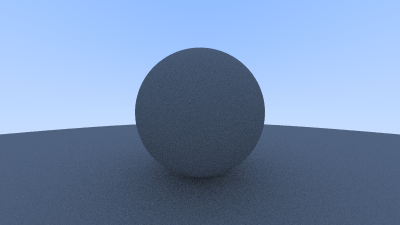
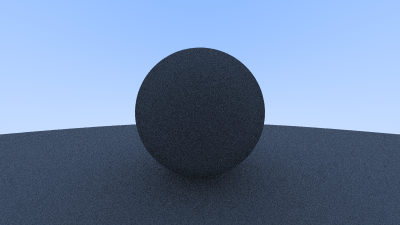
Update all book 1 rendered images
This also adds a new image illustrating the results of removing shadow
acne.

All images have been renumbered accordingly.

Resolves #875
Resolves #914
Resolves #978
Resolves #1013
Resolves #1182

diff --git a/books/RayTracingInOneWeekend.html b/books/RayTracingInOneWeekend.html
@@ -2393,7 +2393,7 @@ Update the main() function to use this new depth limit:
 For this very simple scene we should get basically the same result:
 
   ![<span class='num'>Image 8:</span> Second render of a diffuse sphere with limited bounces
-  ](../images/img-1.07-first-diffuse.png class='pixel')
+  ](../images/img-1.08-second-diffuse.png class='pixel')
 
 </div>
 
@@ -2439,7 +2439,13 @@ to address this is just to ignore hits that are very close to the calculated int
     [Listing [reflect-tolerance]: <kbd>[camera.h]</kbd>
         Calculating reflected ray origins with tolerance]
 
-This gets rid of the shadow acne problem. Yes it is really called that.
+<div class='together'>
+This gets rid of the shadow acne problem. Yes it is really called that. Here's result:
+
+  ![<span class='num'>Image 9:</span> Diffuse sphere with no shadow acne
+  ](../images/img-1.09-no-acne.png class='pixel')
+
+</div>
 
 
 True Lambertian Reflection
@@ -2508,8 +2514,8 @@ The change is actually fairly minimal:
 <div class='together'>
 After rendering we get a similar image:
 
-  ![<span class='num'>Image 9:</span> Correct rendering of Lambertian spheres
-  ](../images/img-1.09-correct-lambertian.png class='pixel')
+  ![<span class='num'>Image 10:</span> Correct rendering of Lambertian spheres
+  ](../images/img-1.10-correct-lambertian.png class='pixel')
 
 </div>
 
@@ -2569,8 +2575,8 @@ repeat for 50%, 70%, and finally 90%. We can overlay these images from left to r
 editor of your choice and you should get a very nice visual representation of the increasing
 brightness of your chosen gamut. This is the one that we've been working with so far: 
 
-![<span class='num'>Image 10:</span> The gamut of our renderer so far
-](../images/img-1.10-linear-gamut.png class='pixel')
+![<span class='num'>Image 11:</span> The gamut of our renderer so far
+](../images/img-1.11-linear-gamut.png class='pixel')
 
 If you look closely, or if you use a color picker, you should notice that the 50% reflectance
 render (the one in the middle) is far too dark to be half-way between white and black (middle-gray).
@@ -2628,8 +2634,8 @@ exponent of $1/\mathit{gamma}$, which is just the square-root.
 <div class='together'>
 Using this gamma correction, we now get a much more consistent ramp from darkness to lightness:
 
-  ![<span class='num'>Image 11:</span> The gamma-corrected render of two diffuse spheres
-  ](../images/img-1.11-gamma-gamut.png class='pixel')
+  ![<span class='num'>Image 12:</span> The gamma-corrected render of two diffuse spheres
+  ](../images/img-1.12-gamma-gamut.png class='pixel')
 
 </div>
 
@@ -3001,8 +3007,8 @@ Now let’s add some metal spheres to our scene:
 <div class='together'>
 Which gives:
 
-  ![<span class='num'>Image 12:</span> Shiny metal
-  ](../images/img-1.12-metal-shiny.png class='pixel')
+  ![<span class='num'>Image 13:</span> Shiny metal
+  ](../images/img-1.13-metal-shiny.png class='pixel')
 
 </div>
 
@@ -3064,8 +3070,8 @@ We can try that out by adding fuzziness 0.3 and 1.0 to the metals:
     ~~~~~~~~~~~~~~~~~~~~~~~~~~~~~~~~~~~~~~~~~~~~~~~~~~~~~~~~~~~~~~~~~~~~~~~~~~~~~~~~~~~~~~~~~~~~~~~~
     [Listing [metal-fuzz-spheres]: <kbd>[main.cc]</kbd> Metal spheres with fuzziness]
 
-  ![<span class='num'>Image 13:</span> Fuzzed metal
-  ](../images/img-1.13-metal-fuzz.png class='pixel')
+  ![<span class='num'>Image 14:</span> Fuzzed metal
+  ](../images/img-1.14-metal-fuzz.png class='pixel')
 
 </div>
 
@@ -3083,8 +3089,8 @@ The hardest part to debug is the refracted ray. I usually first just have all th
 there is a refraction ray at all. For this project, I tried to put two glass balls in our scene, and
 I got this (I have not told you how to do this right or wrong yet, but soon!):
 
-  ![<span class='num'>Image 14:</span> Glass first
-  ](../images/img-1.14-glass-first.png class='pixel')
+  ![<span class='num'>Image 15:</span> Glass first
+  ](../images/img-1.15-glass-first.png class='pixel')
 
 Is that right? Glass balls look odd in real life. But no, it isn’t right. The world should be
 flipped upside down and no weird black stuff. I just printed out the ray straight through the middle
@@ -3213,8 +3219,8 @@ Now we'll update the scene to change the left and center spheres to glass:
 <div class='together'>
 This gives us the following result:
 
-  ![<span class='num'>Image 15:</span> Glass sphere that always refracts
-  ](../images/img-1.15-glass-always-refract.png class='pixel')
+  ![<span class='num'>Image 16:</span> Glass sphere that always refracts
+  ](../images/img-1.16-glass-always-refract.png class='pixel')
 
 </div>
 
@@ -3334,8 +3340,8 @@ parameters:
 <div class='together'>
 We get:
 
-  ![<span class='num'>Image 16:</span> Glass sphere that sometimes refracts
-  ](../images/img-1.16-glass-sometimes-refract.png class='pixel')
+  ![<span class='num'>Image 17:</span> Glass sphere that sometimes refracts
+  ](../images/img-1.17-glass-sometimes-refract.png class='pixel')
 
 </div>
 
@@ -3414,8 +3420,8 @@ make a hollow glass sphere:
 <div class='together'>
 This gives:
 
-  ![<span class='num'>Image 17:</span> A hollow glass sphere
-  ](../images/img-1.17-glass-hollow.png class='pixel')
+  ![<span class='num'>Image 18:</span> A hollow glass sphere
+  ](../images/img-1.18-glass-hollow.png class='pixel')
 
 </div>
 
@@ -3538,8 +3544,8 @@ We'll test out these changes with a simple scene of two touching spheres, using 
 <div class='together'>
 This gives us the rendering:
 
-  ![<span class='num'>Image 18:</span> A wide-angle view
-  ](../images/img-1.18-wide-view.png class='pixel')
+  ![<span class='num'>Image 19:</span> A wide-angle view
+  ](../images/img-1.19-wide-view.png class='pixel')
 
 </div>
 
@@ -3698,8 +3704,8 @@ We'll change back to the prior scene, and use the new viewpoint:
 <div class='together'>
 to get:
 
-  ![<span class='num'>Image 19:</span> A distant view
-  ](../images/img-1.19-view-distant.png class='pixel')
+  ![<span class='num'>Image 20:</span> A distant view
+  ](../images/img-1.20-view-distant.png class='pixel')
 
 </div>
 
@@ -3716,7 +3722,7 @@ And we can change field of view:
 <div class='together'>
 to get:
 
-  ![<span class='num'>Image 20:</span> Zooming in](../images/img-1.20-view-zoom.png class='pixel')
+  ![<span class='num'>Image 21:</span> Zooming in](../images/img-1.21-view-zoom.png class='pixel')
 
 </div>
 
@@ -3972,8 +3978,8 @@ Using a large aperture:
 <div class='together'>
 We get:
 
-  ![<span class='num'>Image 21:</span> Spheres with depth-of-field
-  ](../images/img-1.21-depth-of-field.png class='pixel')
+  ![<span class='num'>Image 22:</span> Spheres with depth-of-field
+  ](../images/img-1.22-depth-of-field.png class='pixel')
 
 </div>
 
@@ -4064,7 +4070,7 @@ validating.)
 <div class='together'>
 This gives:
 
-  ![<span class='num'>Image 22:</span> Final scene](../images/img-1.22-book1-final.jpg)
+  ![<span class='num'>Image 23:</span> Final scene](../images/img-1.23-book1-final.jpg)
 
 </div>
 
